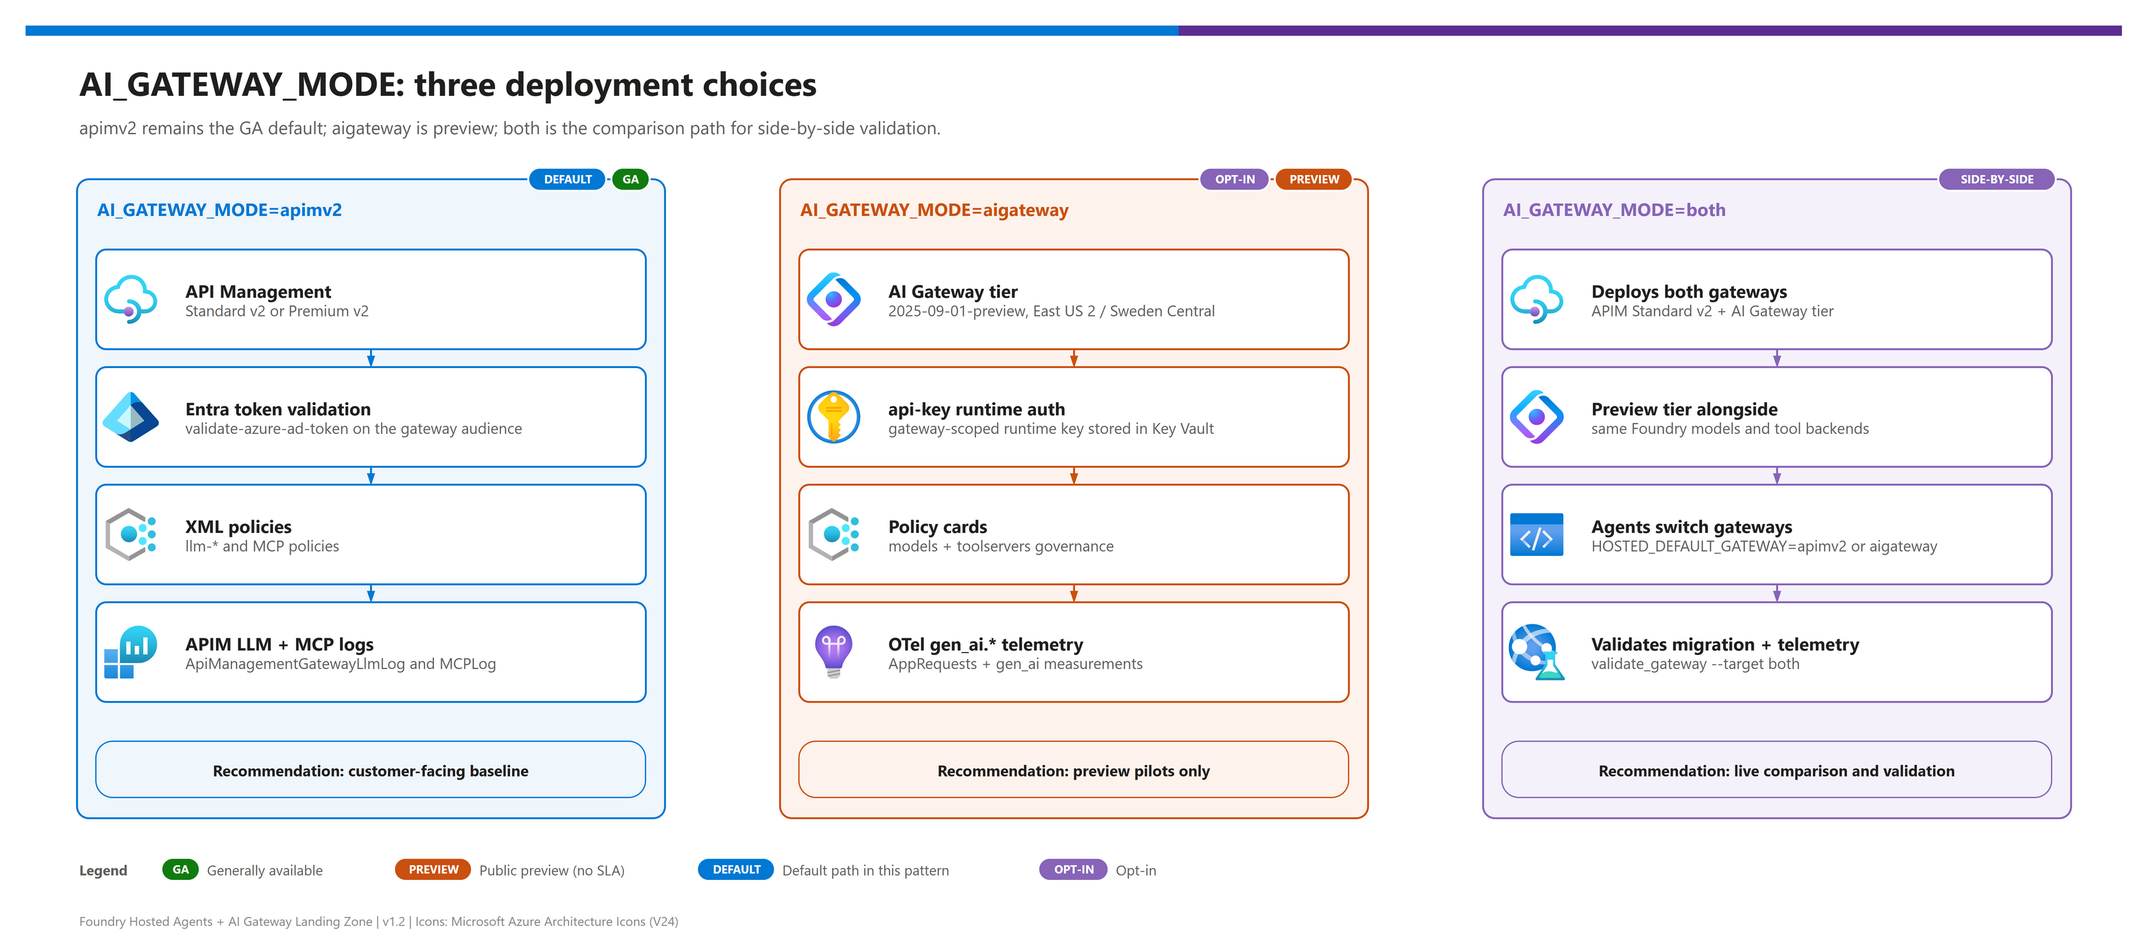
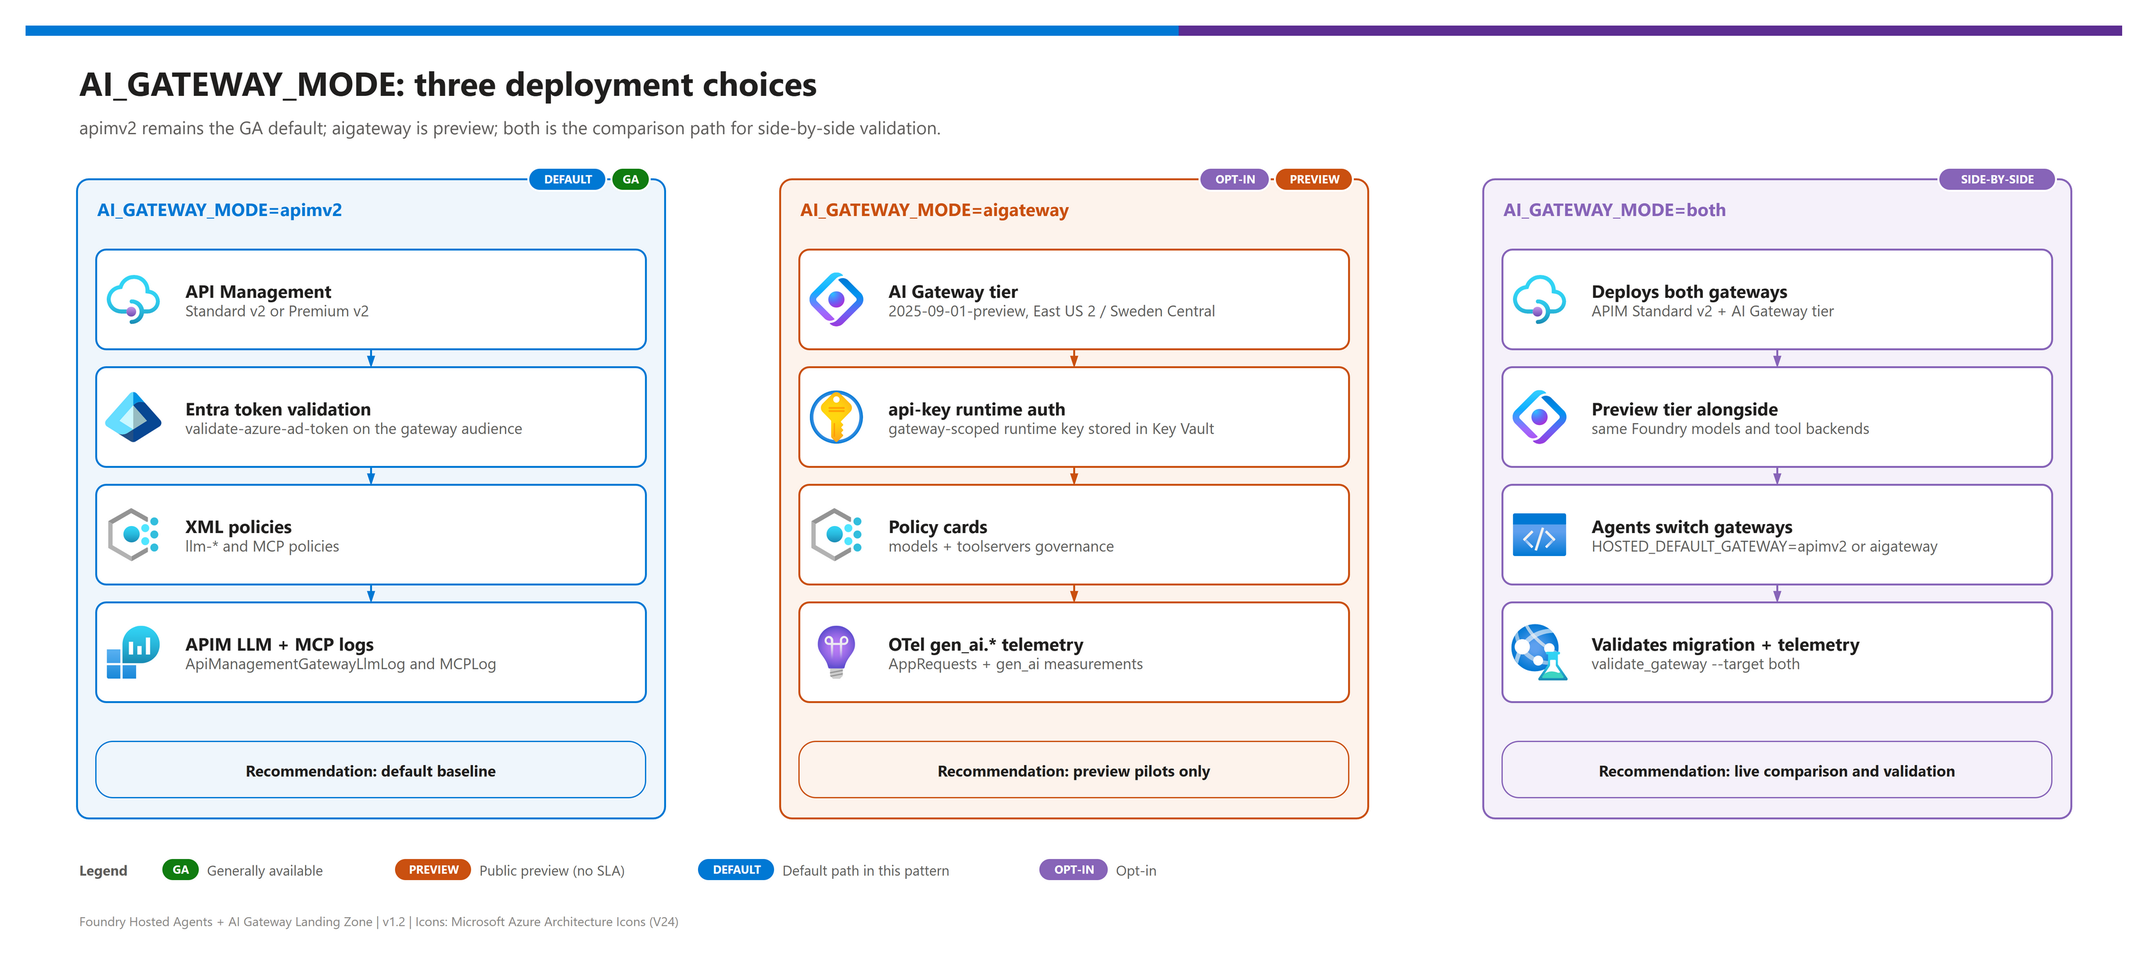
docs: customer-facing wording; remove internal terminology
Copilot-Session: d0f80635-099d-442c-a8b0-a62e914e1f52

diff --git a/tests/test_reusability_guards.py b/tests/test_reusability_guards.py
@@ -1,5 +1,6 @@
-
 import os
+import re
+import subprocess
 from pathlib import Path
 from conftest import ROOT
 ALLOWED_PARTS=(str(Path("config")/"profiles"), str(Path("src")/"agents"/"maf"/"profiles"), str(Path("src")/"agents"/"langgraph"/"profiles"), str(Path("src")/"catalog-mcp"/"data"/"profiles"), str(Path("src")/"records-api"/"data"/"profiles"))
@@ -18,3 +19,23 @@ def test_runtime_code_uses_profile_not_hardcoded_example_domain():
         for term in forbidden:
             if term in text: offenders.append(f"{rel}: {term}")
     assert not offenders
+
+# Internal authoring-tool names and sales/process jargon have no meaning for readers outside
+# the original authoring team, so they must not appear in any published file.
+INTERNAL_TERMS=re.compile(
+    r"demo-pattern-authoring|azure-architecture-diagrams|daily[_ ]?driver|MCAPS|\bMCEM\b|\bMSX\b|\bTPID\b|\bCSAM\b"
+    r"|hard[- ]rules?\s*#|authoring gate|Copilot CLI session|\bSolution Engineers?\b|\bsellers?\b|\baccount team\b"
+    r"|hands-on-keyboard|Technical Close Plan|\bwin plan\b|\bsolution play\b|\bMACC\b|Azure Consumed Revenue"
+    r"|consumption uplift|Tech Elevate|Cloud Accelerate Factory|Viva Engage|\bSeismic\b|microsoft\.sharepoint\.com"
+    r"|\binternal[- ]only\b|Microsoft[- ]internal|not for customer distribution|\btalk track\b",
+    re.IGNORECASE)
+TRACKED_SUFFIXES={".py",".json",".md",".txt",".yaml",".yml",".ps1",".ini",".bicep",".drawio",".xml",".kql",".html"}
+def test_no_internal_terminology():
+    listed=subprocess.run(["git","-C",str(ROOT),"ls-files","-z"],capture_output=True,check=False)
+    paths=[ROOT/p for p in listed.stdout.decode("utf-8").split("\0") if p] if listed.returncode==0 else list(ROOT.rglob("*"))
+    offenders=[]
+    for path in paths:
+        if path.resolve()==Path(__file__).resolve() or not path.is_file() or path.suffix.lower() not in TRACKED_SUFFIXES: continue
+        for lineno,line in enumerate(path.read_text(encoding="utf-8",errors="ignore").splitlines(),1):
+            offenders+=[f"{path.relative_to(ROOT)}:{lineno}: {m.group(0)}" for m in INTERNAL_TERMS.finditer(line)]
+    assert not offenders, "Rewrite internal terminology for an external reader"

diff --git a/scripts/lint_doc_visuals.py b/scripts/lint_doc_visuals.py
@@ -1,5 +1,5 @@
 #!/usr/bin/env python3
-"""Lint demo docs against the visual-richness standard (demo-pattern-authoring hard-rule #19).
+"""Lint demo docs against the visual documentation standard used in this repo.
 
 Checks README.md and docs/*.md. Errors fail the run; warnings fail only with --strict.
 
@@ -20,7 +20,7 @@ Warnings
   status      a table mentions GA/Preview in text but carries no badge image
 
     python lint_doc_visuals.py                      # from the demo root
-    python lint_doc_visuals.py --root C:\\Users\\me\\Demos\\my-pattern --strict
+    python lint_doc_visuals.py --root <repo-root> --strict
 """
 from __future__ import annotations
 

diff --git a/docs/01-architecture.md b/docs/01-architecture.md
@@ -21,7 +21,7 @@
   <img src="./assets/badges/live-tested.svg" alt="validation: Live-tested">
 </p>
 
-Architecture guide for platform engineers, solution architects, and developers who need to understand how two hosted-agent frameworks, two gateway families, tool backends, identity, and audit telemetry fit together. Read it before a customer workshop so you can answer "where does this call go, who authenticated it, and where is it logged?" for every hop.
+Architecture guide for platform engineers, solution architects, and developers who need to understand how two hosted-agent frameworks, two gateway families, tool backends, identity, and audit telemetry fit together. Read it before an architecture review or workshop so you can answer "where does this call go, who authenticated it, and where is it logged?" for every hop.
 
 ## At a glance
 
@@ -50,7 +50,7 @@ Architecture guide for platform engineers, solution architects, and developers w
 
 | | Mode | Status | What it means |
 |---|---|---|---|
-| <img src="./assets/icons/api-management.svg" width="20" alt=""> | **`apimv2`** | <img src="./assets/badges/default.svg" alt="Default"> <img src="./assets/badges/ga.svg" alt="GA"> | Only APIM v2 is deployed. Safe baseline for customer-facing demos. |
+| <img src="./assets/icons/api-management.svg" width="20" alt=""> | **`apimv2`** | <img src="./assets/badges/default.svg" alt="Default"> <img src="./assets/badges/ga.svg" alt="GA"> | Only APIM v2 is deployed. Safe baseline for shared, repeatable demos. |
 | <img src="./assets/icons/ai-gateway.svg" width="20" alt=""> | **`aigateway`** | <img src="./assets/badges/opt-in.svg" alt="Opt-in"> <img src="./assets/badges/public-preview.svg" alt="Public preview"> | Only the AI Gateway tier is deployed. East US 2 / Sweden Central only. |
 | <img src="./assets/icons/monitor.svg" width="20" alt=""> | **`both`** | <img src="./assets/badges/opt-in.svg" alt="Opt-in"> | Both deployed; `AGENT_DEFAULT_GATEWAY` (passed to the agents as `HOSTED_DEFAULT_GATEWAY`) picks which one the agents call. |
 
@@ -154,7 +154,7 @@ Both paths start the same way: a client calls a hosted agent endpoint, and the a
 | **D4** | Tools: native MCP (`catalog-mcp`, "Expose and govern an existing MCP server") + REST exposed as MCP (`records-api`, "Expose REST API in API Management as an MCP server") | Shows both "bring your MCP server" and "wrap my REST API" governance paths. | Two tool servers, one allow-list. |
 | **D5** | Identity: Entra validation on APIM; honest key-based identity on the tier | APIM can validate Entra tokens; AI Gateway tier runtime keys are not per-principal validation. | Docs and audit schema avoid overstating preview identity. |
 | **D6** | Traceability: propagate `traceparent` and `x-gw-request-id` end to end | Needed to join agent, gateway, and backend evidence. | Cross-system correlation remains DIY. |
-| **D7** | Monitoring plane: resource-specific tables, saved KQL, workbook, alerts | GA operational surface, mature policy, resource-specific diagnostics. | Customer-facing demos start on `apimv2`. |
+| **D7** | Monitoring plane: resource-specific tables, saved KQL, workbook, alerts | GA operational surface, mature policy, resource-specific diagnostics. | Shared and repeatable demos start on `apimv2`. |
 | **D8** | Landing-zone network: public endpoints with Entra auth by default; `NETWORK_ISOLATION=true` adds VNet `10.40.0.0/16`, delegated subnets, 8 private endpoints and 9 private DNS zones (what-if validated, not live-deployed) | Keeps the first build fast; private is an explicit add-on. | Private build adds time (see [00](./00-reproduce-this-demo.md#time-budget)). |
 | **D9** | Guardrails: `llm-content-safety` (`ENABLE_CONTENT_SAFETY`), `llm-token-limit` per agent identity, MCP tool allow-list, `rate-limit-by-key` on MCP | Controls belong at the choke point, not in each agent. | Same guardrail for both frameworks. |
 | **D10** | Known gaps listed openly | A demo that hides gaps loses credibility. | See [README known gaps](../README.md#known-gaps). |
@@ -214,7 +214,7 @@ Tool **names** stay `list_items`, `search_items`, ... for every domain - the gat
 ## References
 
 > [!NOTE]
-> The AI Gateway tier is a public preview; re-check these pages before a customer session because resource shapes can change.
+> The AI Gateway tier is a public preview; re-check these pages before a live session because resource shapes can change.
 
 - AI Gateway tier overview: <https://learn.microsoft.com/en-us/azure/api-management/ai-gateway-overview>
 - AI Gateway models and tools: <https://learn.microsoft.com/en-us/azure/api-management/ai-gateway-manage-models-tools>

diff --git a/README.md b/README.md
@@ -28,7 +28,7 @@
 > [!WARNING]
 > **For testing and demonstration purposes only.** This is a personal reference demo provided "as is" under the [MIT License](LICENSE), without warranty or support. It is not an official Microsoft product or sample, has not been through a production security review, and is not intended for production use. Review, test, and harden it before reusing any part of it, deploy only to non-production subscriptions, and never use real customer or personal data.
 
-  A reusable demo pattern for running **Microsoft Foundry** (formerly Azure AI Foundry) hosted agents behind governed model and tool gateways. It is for platform engineers, solution architects, and Solution Engineers who need to show - and then adapt - how an agent estate stays governed, observable, and auditable. Version 1.2 runs both hosted agents (Microsoft Agent Framework and LangGraph) on the **official Foundry hosting libraries**, and live-validates both gateways (`apimv2` and the AI Gateway tier, selectable as `apimv2`, `aigateway`, or `both`) end to end on 2026-10-02. Network isolation now creates its private endpoints and DNS zones, but that mode is validated statically only.
+  A reusable demo pattern for running **Microsoft Foundry** (formerly Azure AI Foundry) hosted agents behind governed model and tool gateways. It is for platform engineers, solution architects, and developers who need to demonstrate - and then adapt - how an agent estate stays governed, observable, and auditable. Version 1.2 runs both hosted agents (Microsoft Agent Framework and LangGraph) on the **official Foundry hosting libraries**, and live-validates both gateways (`apimv2` and the AI Gateway tier, selectable as `apimv2`, `aigateway`, or `both`) end to end on 2026-10-02. Network isolation now creates its private endpoints and DNS zones, but that mode is validated statically only.
 
 ## At a glance
 
@@ -229,12 +229,12 @@ Upstream samples were used as design references; this demo re-implements the pat
 ## Known gaps
 
 > [!NOTE]
-> **Be honest in the room.** These are open items, not hidden ones.
+> **Known limitations.** These are open items, not hidden ones.
 > - No first-party hosted-agent CI/CD template exists; treat `.github/workflows/deploy.yml` as a starting point only.
 > - One Foundry project per environment tier is the supported isolation model.
 > - Cross-system trace correlation (agent ↔ gateway ↔ backend) is DIY - the pattern propagates `traceparent` and `x-gw-request-id`, but there is no single platform join.
 > - The effective runtime identity of a hosted agent is its **instance identity**, which exists only after the agent is deployed, so Bicep cannot grant it Key Vault access. The `postdeploy` hook does it, but that hook is not yet verified live.
-> - Under an MCAPS-style Key Vault network policy, hosted agents (which run outside your VNet) get `ForbiddenByConnection` on Key Vault. The proper fix is network isolation mode; `AIGW_KEY_DELIVERY=env` is a demo-only compromise that stores the key in plaintext in the azd env and agent configuration.
+> - Under an organization policy that disables Key Vault public network access, hosted agents (which run outside your VNet) get `ForbiddenByConnection` on Key Vault. The proper fix is network isolation mode; `AIGW_KEY_DELIVERY=env` is a demo-only compromise that stores the key in plaintext in the azd env and agent configuration.
 > - `NETWORK_ISOLATION=true` now creates private endpoints and DNS zones, but it is validated by `what-if` only (127 resources, no errors) and was never live-deployed. The hosted-agent endpoint stays public, APIM and the AI Gateway tier stay public until a manual lockdown, and there is no AMPLS. See [10 - Enterprise posture and scale](./docs/10-enterprise-posture-and-scale.md).
 > - The AI Gateway tier writes its LLM and MCP telemetry to Application Insights `AppRequests`, not to `ApiManagementGatewayLlmLog`; only the 429 policy probe was exercised among its policies.
 

diff --git a/docs/04-testing.md b/docs/04-testing.md
@@ -210,7 +210,7 @@ A disposable deployment of v1.2.0 (environment `fhagl1002`) was provisioned and 
 > **Hosted-agent identity finding.** The effective runtime identity of a hosted agent is its **instance identity principal** (from `azd ai agent show <agent> --output json`, `instance_identity.principal_id`). It is distinct from the blueprint principal and the Foundry project identity, is stable across agent versions, and exists only after the agent is deployed - so Bicep cannot grant it access. It needs **Key Vault Secrets User** to read the AI Gateway runtime key. APIM v2 needs no role for the agent. See [07 - the runtime principal](./07-identity-auth-traceability.md#the-runtime-principal-is-the-instance-identity).
 
 > [!WARNING]
-> **Key Vault `ForbiddenByConnection`.** Under a policy that forces Key Vault public access off (the MCAPS `KeyVault_PublicNetwork_Modify` policy in the test subscription), hosted agents - which run outside the VNet - could not read the secret even with the role. The proper fix is network isolation mode (not live-validated); `AIGW_KEY_DELIVERY=env` is a demo-only compromise. See [05](./05-troubleshooting.md#hosted-agent-gets-forbiddenbyconnection-from-key-vault).
+> **Key Vault `ForbiddenByConnection`.** Under a policy that forces Key Vault public access off (an organization policy in the test subscription), hosted agents - which run outside the VNet - could not read the secret even with the role. The proper fix is network isolation mode (not live-validated); `AIGW_KEY_DELIVERY=env` is a demo-only compromise. See [05](./05-troubleshooting.md#hosted-agent-gets-forbiddenbyconnection-from-key-vault).
 
 **Teardown.** `azd down --purge --force` took 36 min 33 s. The Cognitive Services account stayed soft-deleted and was purged manually, and the gateway Entra app was deleted by hand. Verify with `az group exists --name <rg>` rather than trusting `azd down` alone.
 

diff --git a/docs/00-reproduce-this-demo.md b/docs/00-reproduce-this-demo.md
@@ -19,7 +19,7 @@
   <img src="./assets/badges/static-only.svg" alt="validation: Network isolation static-only">
 </p>
 
-Single-page orchestrator for standing up the **Foundry Hosted Agents + AI Gateway Landing Zone** from an empty Azure subscription. Use it for checkpoints before opening the deeper runbooks. It is written for the person who will actually run the build - a Solution Engineer or platform engineer - and every part ends with a checkpoint you can tick off.
+Single-page orchestrator for standing up the **Foundry Hosted Agents + AI Gateway Landing Zone** from an empty Azure subscription. Use it for checkpoints before opening the deeper runbooks. It is written for the person who will actually run the build - typically a platform engineer or developer - and every part ends with a checkpoint you can tick off.
 
 ## At a glance
 
@@ -76,7 +76,7 @@ Key Vault (runtime key) ──┘        Application Insights + Log Analytics + 
 ### Part A - Ground truth and authentication <img src="./assets/icons/entra-id.svg" width="24" alt="">
 
 > [!WARNING]
-> `az` and `azd` keep **separate** logins, and the ambient active account silently drifts across tenants. Always sign in with an explicit tenant and verify before any deployment. Never use the corporate/CRM tenant for a demo deployment.
+> `az` and `azd` keep **separate** logins, and the ambient active account silently drifts across tenants. Always sign in with an explicit tenant and verify before any deployment. Never deploy a demo into a production or shared corporate tenant by accident.
 
 | Step | | Action | Validation |
 |---|---|---|---|

diff --git a/docs/10-enterprise-posture-and-scale.md b/docs/10-enterprise-posture-and-scale.md
@@ -154,7 +154,7 @@ Plan capacity from the documented limits, not from the demo's defaults ([network
 | | Strategy | Recommended settings |
 |---|---|---|
 | <img src="./assets/icons/resource-group.svg" width="24" alt=""/> | **Demo / comparison** | `AI_GATEWAY_MODE=both`; start with `AGENT_DEFAULT_GATEWAY=apimv2`, then a second pass with `aigateway`. |
-| <img src="./assets/icons/api-management.svg" width="24" alt=""/> | **Customer-facing, repeatable** | `AI_GATEWAY_MODE=apimv2` unless AI Gateway tier (<img src="./assets/badges/public-preview.svg" alt="Public preview">) use is explicitly approved. |
+| <img src="./assets/icons/api-management.svg" width="24" alt=""/> | **Shared, repeatable** | `AI_GATEWAY_MODE=apimv2` unless AI Gateway tier (<img src="./assets/badges/public-preview.svg" alt="Public preview">) use is explicitly approved. |
 | <img src="./assets/icons/ai-gateway.svg" width="24" alt=""/> | **Preview validation** | `AI_GATEWAY_MODE=both` in East US 2 or Sweden Central, with the `AIGatewayPreview` feature registered and a live report captured. |
 | <img src="./assets/icons/private-endpoint.svg" width="24" alt=""/> | **Private posture** | Keep the decision explicit per gateway; one setting does not secure both. |
 | <img src="./assets/icons/subscription.svg" width="24" alt=""/> | **Environment tiers** | Use one Foundry project per environment tier (dev, test, production), each its own azd environment. |

diff --git a/docs/03-deployment.md b/docs/03-deployment.md
@@ -153,7 +153,7 @@ The hook skips itself when `AIGW_KEY_DELIVERY=env`, when `AI_GATEWAY_MODE=apimv2
 > ```
 
 > [!WARNING]
-> **Key Vault network policy.** Under a policy that forces Key Vault public access off (for example the MCAPS `KeyVault_PublicNetwork_Modify` policy), hosted agents - which run outside your VNet - get `ForbiddenByConnection` even with the role granted. The proper fix is `NETWORK_ISOLATION=true` (Key Vault private endpoint plus agent subnet injection; not yet live-validated). The demo-only compromise is:
+> **Key Vault network policy.** Under a policy that forces Key Vault public access off (for example, an organization policy that sets Key Vault `publicNetworkAccess` to `Disabled`), hosted agents - which run outside your VNet - get `ForbiddenByConnection` even with the role granted. The proper fix is `NETWORK_ISOLATION=true` (Key Vault private endpoint plus agent subnet injection; not yet live-validated). The demo-only compromise is:
 > ```powershell
 > azd env set AIGW_KEY_DELIVERY env
 > azd provision   # postprovision writes the key into the azd env

diff --git a/docs/02-prerequisites.md b/docs/02-prerequisites.md
@@ -163,7 +163,7 @@ Australia East · Brazil South · Canada Central · Canada East · Central US ·
 | <img src="./assets/icons/entra-id-protection.svg" width="20" alt=""> | **Gateway-scoped keys** | One key reaches all models and tools in the gateway during preview; create separate keys per app/environment where possible. |
 
 > [!WARNING]
-> Preview networking (inbound Private Link, outbound VNet integration) for the AI Gateway tier is itself in preview, and the tier private endpoint plus outbound integration are not verified end to end. Do not promise private-only AI Gateway tier traffic in a customer commitment.
+> Preview networking (inbound Private Link, outbound VNet integration) for the AI Gateway tier is itself in preview, and the tier private endpoint plus outbound integration are not verified end to end. Do not assume private-only AI Gateway tier traffic in a customer commitment.
 
 ## Model availability matrix (dated 2026-10-02)
 

diff --git a/docs/05-troubleshooting.md b/docs/05-troubleshooting.md
@@ -113,7 +113,7 @@ Hosted agents run the official hosts (no fallback server). Hosted agents are GA;
 
 ### Hosted agent gets ForbiddenByConnection from Key Vault
 
-<img src="./assets/icons/key-vault.svg" width="24" alt="Key Vault"/> The agent log shows a Key Vault 403 with `ForbiddenByConnection`, even though the role assignment exists. Hosted agents run **outside your VNet**, and a policy such as the MCAPS `KeyVault_PublicNetwork_Modify` forces Key Vault public network access off, so the vault firewall rejects them. This happened in the live run.
+<img src="./assets/icons/key-vault.svg" width="24" alt="Key Vault"/> The agent log shows a Key Vault 403 with `ForbiddenByConnection`, even though the role assignment exists. Hosted agents run **outside your VNet**, and when an organization policy disables Key Vault public network access, the vault firewall rejects them. This happened in the live run.
 
 | Order | Fix | Notes |
 |---|---|---|

diff --git a/CHANGELOG.md b/CHANGELOG.md
@@ -1,5 +1,9 @@
 # Changelog
 
+## Unreleased
+
+- Docs: rewrote for external audiences; removed internal terminology. Policy-specific references now describe a generic organization policy that disables Key Vault public network access (docs, README, `postprovision`/`postdeploy-agents` hook messages); audience lines name platform engineers and developers; demo and walkthrough wording no longer assumes a customer session; the gateway-modes diagram reads "Recommendation: default baseline" (PNG re-exported); `lint_doc_visuals.py` docstrings use neutral wording and a `<repo-root>` example. `tests/test_reusability_guards.py` gains `test_no_internal_terminology` over every tracked text file.
+
 ## 1.2.0 - 2026-10-02
 
 Official agent hosts, AI Gateway tier proven live, and isolation mode now creates its private endpoints.

diff --git a/docs/11-demo-walkthrough.md b/docs/11-demo-walkthrough.md
@@ -15,7 +15,7 @@
 
 ![GA](./assets/badges/ga.svg) ![Preview](./assets/badges/preview.svg) ![live-tested](./assets/badges/live-tested.svg) ![version](./assets/badges/version.svg)
 
-A customer-shareable script for the hosted-agent and AI gateway landing zone. The story runs as a **matrix**: two agent frameworks (Microsoft Agent Framework and LangGraph) against two gateway targets (APIM v2 and the AI Gateway tier), through five steps, **S1 to S5**, that end in the audit trail.
+A shareable presenter script for the hosted-agent and AI gateway landing zone. The story runs as a **matrix**: two agent frameworks (Microsoft Agent Framework and LangGraph) against two gateway targets (APIM v2 and the AI Gateway tier), through five steps, **S1 to S5**, that end in the audit trail.
 
 ## At a glance
 
